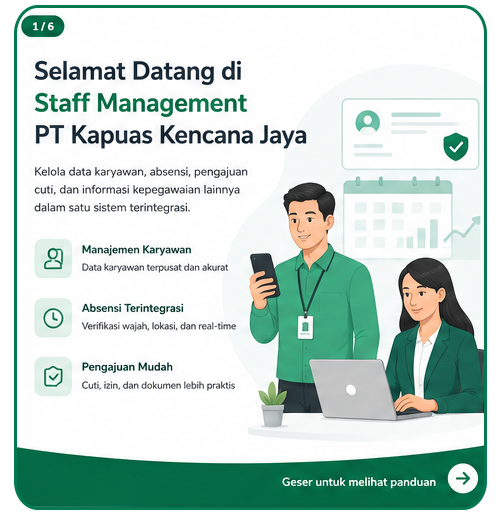
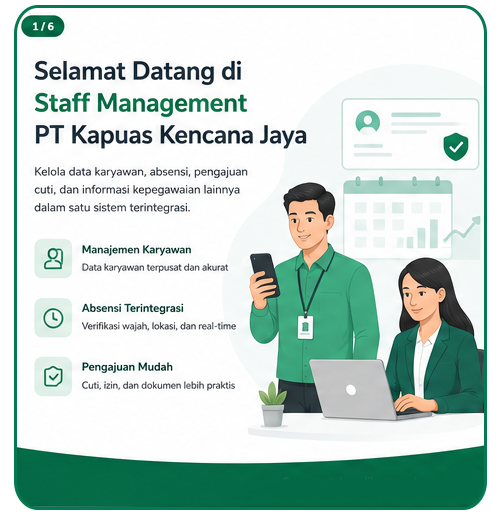
update guide

Changed region(s): [[0.57, 0.932, 0.87, 0.9631], [0.9, 0.901, 0.96, 0.9631]]

diff --git a/resources/views/components/home/⚡rule.blade.php b/resources/views/components/home/⚡rule.blade.php
@@ -36,6 +36,17 @@ new class extends Component
                                 @foreach(range(1,6) as $i)
                                     <div data-carousel-item="{{ $i == 1 ? 'active' : '' }}" class="{{ $i == 1 ? '' : 'hidden' }} duration-500 ease-in-out">
                                         <img src="{{ asset("guide/Slide-$i.png") }}" alt="Slide {{ $i }}" class="mx-auto max-h-[70vh] w-auto rounded-xl" draggable="false">
+                                        @if ($i == 2)
+                                            <a href="{{ route('face-registration') }}" class="absolute right-[5%] bottom-[7%] rounded-lg bg-emerald-600 px-2 py-1 text-xs font-semibold text-white shadow hover:bg-emerald-700">
+                                                Registrasikan Wajah
+                                            </a>
+                                        @endif
+
+                                        @if ($i == 6)
+                                            <a href="{{ route('leave-plan') }}" class="absolute right-[5%] bottom-[7%] rounded-lg bg-emerald-600 px-2 py-1 text-xs font-semibold text-white shadow hover:bg-emerald-700">
+                                                Ajukan Rencana Cuti
+                                            </a>
+                                        @endif
                                     </div>
                                 @endforeach
                             </div>

diff --git a/resources/views/components/header/⚡user.blade.php b/resources/views/components/header/⚡user.blade.php
@@ -22,7 +22,7 @@ new class extends Component
     <li>
         <a href="{{ route('leave-plan') }}" class="block py-2 px-4 text-sm hover:bg-gray-300 hover:text-emerald-800"><i class="ri-calendar-todo-fill"></i> Rencana Cuti</a>
     </li>
-    <li>
+    {{-- <li>
         <a href="{{ route('salary') }}" class="block py-2 px-4 text-sm hover:bg-gray-300 hover:text-emerald-800"><i class="ri-calculator-fill"></i> Gaji Saya</a>
-    </li>
+    </li> --}}
 </div>